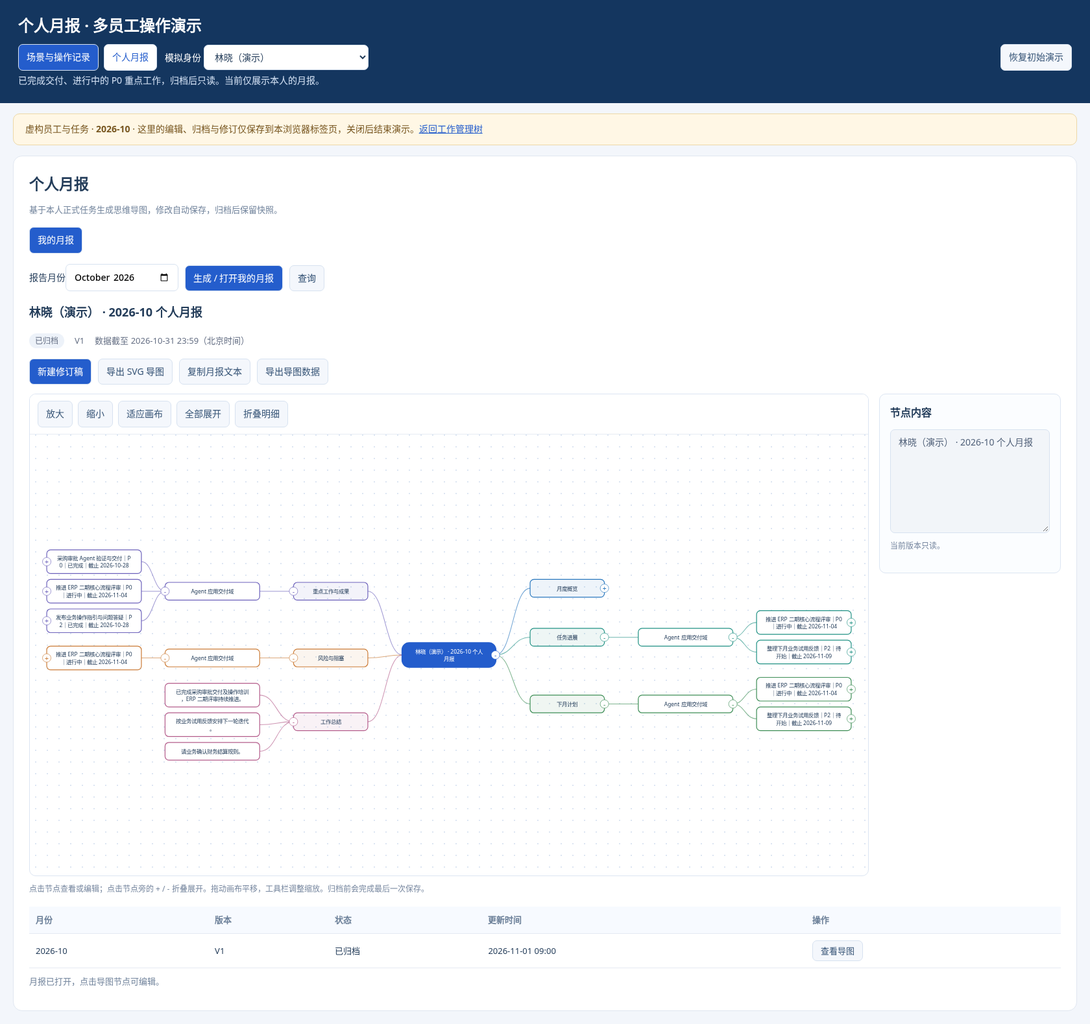
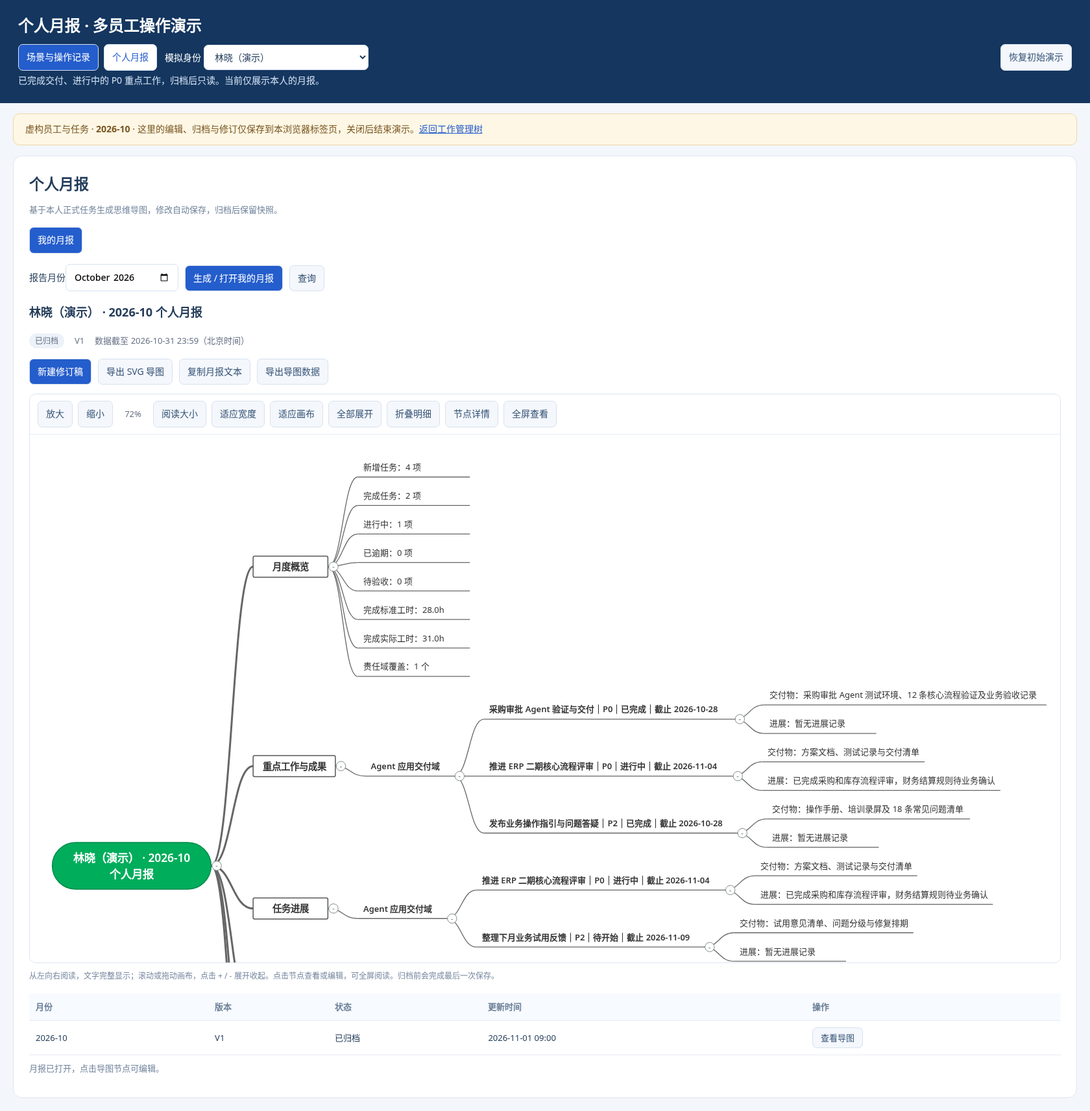
style: use readable right-facing monthly mind maps with underline branches

diff --git a/static/monthly-reports.js b/static/monthly-reports.js
@@ -1,31 +1,48 @@
-function monthlyMapLines(text,width,maxLines=3){
+function monthlyTextWidth(text,fontSize=18){
+  return Array.from(String(text)).reduce((width,char)=>{
+    const factor=char===' '?0.3:/[ilI.,:;!|']/u.test(char)?0.32:/[MW@#%]/.test(char)?0.95:/[\x00-\xff]/.test(char)?0.62:1;
+    return width+factor*fontSize;
+  },0);
+}
+function monthlyMapLines(text,width,maxLines=Infinity,fontSize=18){
   const lines=[];let line='',size=0;
   for(const char of String(text)){
-    const unit=/[\x00-\xff]/.test(char)?7:13;
-    if(char==='\n'||size+unit>width){lines.push(line);line='';size=0;if(lines.length===maxLines){lines[maxLines-1]+='…';return lines;}}
+    const unit=monthlyTextWidth(char,fontSize);
+    if(char==='\n'||(line&&size+unit>width)){
+      lines.push(line);line='';size=0;
+      if(lines.length===maxLines){lines[maxLines-1]+='…';return lines;}
+    }
     if(char!=='\n'){line+=char;size+=unit;}
   }
-  if(line||!lines.length)lines.push(line);return lines;
+  lines.push(line);return lines;
 }
 function layoutMonthlyMap(root,collapsed=new Set()){
-  const nodes=[],edges=[],cache=new Map(),gap=14;
-  const box=(node,depth)=>{const width=depth===0?220:depth===1?176:224,lines=monthlyMapLines(node.text,width-32);return {width,height:Math.max(42,lines.length*18+20),lines};};
-  function measure(node,depth){const own=box(node,depth),children=collapsed.has(node.id)?[]:node.children;const height=Math.max(own.height,children.reduce((sum,n)=>sum+measure(n,depth+1),0)+Math.max(0,children.length-1)*gap);cache.set(node.id,{...own,span:height});return height;}
+  const nodes=[],edges=[],cache=new Map(),gap=18;
+  function measure(node,depth){
+    const kind=node.kind||(depth===0?'root':depth===1?'section':'detail');
+    const fontSize=depth===0?24:depth===1?20:18,lineHeight=Math.ceil(fontSize*1.45);
+    const limit=depth===0?[260,340]:depth===1?[160,240]:kind==='group'?[190,290]:kind==='task'?[340,550]:[240,760];
+    const padding=depth<=1?36:24;
+    const longest=Math.max(0,...String(node.text).split('\n').map(line=>monthlyTextWidth(line,fontSize)));
+    const width=Math.max(limit[0],Math.min(limit[1],longest+padding));
+    const lines=monthlyMapLines(node.text,width-padding,Infinity,fontSize);
+    const own={width,height:lines.length*lineHeight+(depth===0?30:16),lines,fontSize,lineHeight,kind};
+    const children=collapsed.has(node.id)?[]:node.children;
+    const span=Math.max(own.height,children.reduce((sum,n)=>sum+measure(n,depth+1),0)+Math.max(0,children.length-1)*gap);
+    cache.set(node.id,{...own,span});return span;
+  }
   measure(root,0);
-  function place(node,depth,side,centerY,parent,color){
-    const own=cache.get(node.id),item={...own,node,depth,side,x:side*depth*280,y:centerY,color};nodes.push(item);if(parent)edges.push({parent,child:item,color});
-    const children=collapsed.has(node.id)?[]:node.children,total=children.reduce((sum,n)=>sum+cache.get(n.id).span,0)+Math.max(0,children.length-1)*gap;let top=centerY-total/2;
-    for(const child of children){const span=cache.get(child.id).span;place(child,depth+1,side,top+span/2,item,color);top+=span+gap;}
+  function place(node,depth,left,centerY,parent){
+    const own=cache.get(node.id),item={...own,node,depth,side:1,x:left+own.width/2,y:centerY,color:'#555'};
+    nodes.push(item);if(parent)edges.push({parent,child:item,color:'#666'});
+    const children=collapsed.has(node.id)?[]:node.children;
+    const total=children.reduce((sum,n)=>sum+cache.get(n.id).span,0)+Math.max(0,children.length-1)*gap;
+    let top=centerY-total/2;
+    for(const child of children){const span=cache.get(child.id).span;place(child,depth+1,left+own.width+(depth===0?90:64),top+span/2,item);top+=span+gap;}
   }
-  const central={...cache.get(root.id),node:root,depth:0,side:0,x:0,y:0,color:'#245dcc'};nodes.push(central);
-  const colors=['#2877be','#6c61bb','#209184','#cb7b36','#3c8d55','#b45c8b'];
-  if(!collapsed.has(root.id))for(const side of [-1,1]){
-    const branches=root.children.map((node,index)=>({node,index})).filter(n=>(n.index%2===0?1:-1)===side);
-    const total=branches.reduce((sum,n)=>sum+cache.get(n.node.id).span,0)+Math.max(0,branches.length-1)*32;let top=-total/2;
-    for(const {node,index} of branches){const span=cache.get(node.id).span;place(node,1,side,top+span/2,central,colors[index%colors.length]);top+=span+32;}
-  }
-  const left=Math.min(...nodes.map(n=>n.x-n.width/2))-40,right=Math.max(...nodes.map(n=>n.x+n.width/2))+40;
-  const top=Math.min(...nodes.map(n=>n.y-n.height/2))-40,bottom=Math.max(...nodes.map(n=>n.y+n.height/2))+40;
+  place(root,0,0,0,null);
+  const left=Math.min(...nodes.map(n=>n.x-n.width/2))-48,right=Math.max(...nodes.map(n=>n.x+n.width/2))+48;
+  const top=Math.min(...nodes.map(n=>n.y-n.height/2))-48,bottom=Math.max(...nodes.map(n=>n.y+n.height/2))+48;
   return {nodes,edges,bounds:{x:left,y:top,width:right-left,height:bottom-top}};
 }
 if(typeof module!=='undefined'&&module.exports)module.exports={layoutMonthlyMap,monthlyMapLines};
@@ -34,14 +51,14 @@ if(typeof module!=='undefined'&&module.exports)module.exports={layoutMonthlyMap,
   if(typeof document==='undefined')return;
   const $=selector=>document.querySelector(selector),esc=value=>String(value??'').replace(/[&<>"']/g,c=>({'&':'&amp;','<':'&lt;','>':'&gt;','"':'&quot;',"'":'&#39;'}[c]));
   const svgNS='http://www.w3.org/2000/svg';
-  let user=null,report=null,active=false,busy=false,scope='mine',selected='root',collapsed=new Set(),viewport=null,layout=null,loadVersion=0,identityId=null;
+  let user=null,report=null,active=false,busy=false,scope='mine',selected='root',collapsed=new Set(),zoom=null,layout=null,loadVersion=0,identityId=null;
   const style=document.createElement('style');
-  style.textContent=`#monthlyPage main{max-width:1680px}#monthlyPage .monthly-tabs{display:flex;gap:8px;margin:16px 0}#monthlyPage .monthly-tabs button{background:#eef3fb;color:#47617e}#monthlyPage .monthly-tabs button.active{background:#245dcc;color:#fff}#monthlyPage .monthly-toolbar{display:flex;align-items:end;gap:10px;flex-wrap:wrap;margin:16px 0}#monthlyPage button{width:auto;margin:0}#monthlyPage input,#monthlyPage select{width:auto;min-width:140px}#monthlyPage label{margin:0}#monthlyPage [hidden]{display:none!important}.monthly-workspace{display:grid;grid-template-columns:minmax(0,1fr) 280px;gap:16px;align-items:start}.monthly-canvas{border:1px solid #dce5f2;border-radius:10px;overflow:hidden;background:radial-gradient(#dce5f2 1px,transparent 1px) 0 0/18px 18px}.monthly-map-tools{padding:10px 12px;display:flex;gap:8px;flex-wrap:wrap;border-bottom:1px solid #e6ecf4;background:#fff}.monthly-canvas svg{display:block;width:100%;height:680px;touch-action:none;cursor:grab}.monthly-node{cursor:pointer;outline:none}.monthly-node:focus>rect,.monthly-node.selected>rect{stroke-width:3}.monthly-node text{font:13px -apple-system,BlinkMacSystemFont,'Microsoft YaHei',sans-serif;user-select:none}.monthly-node .monthly-toggle{cursor:pointer;font-size:16px}.monthly-panel{padding:16px;border:1px solid #dce5f2;border-radius:10px;background:#fbfdff;min-width:0}.monthly-panel h3{font-size:16px;margin:0 0 12px}.monthly-panel textarea{width:100%;box-sizing:border-box;min-height:160px;font:inherit;font-size:14px;line-height:1.6}.monthly-panel textarea:disabled{color:#52627a;background:#f2f5f9}.monthly-panel .monthly-node-actions{display:flex;gap:8px;flex-wrap:wrap;margin-top:12px}.monthly-panel .monthly-source{white-space:pre-wrap;overflow-wrap:anywhere;font-size:12px;line-height:1.7;color:#667085;margin-top:16px}.monthly-help{font-size:12px;color:#7888a0;margin:10px 0}.monthly-list{overflow:auto;margin-top:18px}.monthly-list table{border-collapse:collapse;width:100%;font-size:13px;white-space:nowrap}.monthly-list th,.monthly-list td{padding:10px;border-bottom:1px solid #e5eaf2;text-align:left}.monthly-list th{background:#f7faff;color:#6b7f98}.monthly-meta{display:flex;gap:10px 16px;flex-wrap:wrap;align-items:center;margin:10px 0 16px;color:#667085;font-size:13px}.monthly-login{padding:25px;border:1px solid #d9e5f5;background:#f5f9ff;border-radius:10px}.monthly-error{color:#b42318}.monthly-list button{padding:5px 12px}#monthlyPage .monthly-meta .tag{margin:0}#monthlyPage .monthly-actions{display:flex;gap:10px;align-items:center;flex-wrap:wrap;margin-bottom:14px}@media(max-width:1100px){.monthly-workspace{grid-template-columns:minmax(0,1fr)}.monthly-canvas svg{height:620px}.monthly-panel textarea{min-height:100px}}@media(max-width:600px){.monthly-canvas svg{height:520px}.monthly-toolbar>*{max-width:100%}}`;
+  style.textContent=`#monthlyPage main{max-width:1680px}#monthlyPage .monthly-tabs{display:flex;gap:8px;margin:16px 0}#monthlyPage .monthly-tabs button{background:#eef3fb;color:#47617e}#monthlyPage .monthly-tabs button.active{background:#245dcc;color:#fff}#monthlyPage .monthly-toolbar{display:flex;align-items:end;gap:10px;flex-wrap:wrap;margin:16px 0}#monthlyPage button{width:auto;margin:0}#monthlyPage input,#monthlyPage select{width:auto;min-width:140px}#monthlyPage label{margin:0}#monthlyPage [hidden]{display:none!important}.monthly-workspace{display:block}.monthly-workspace.editing{display:grid;grid-template-columns:minmax(0,1fr) 300px;gap:16px;align-items:start}.monthly-canvas{border:1px solid #dce5f2;border-radius:10px;overflow:hidden;background:#fff}.monthly-map-tools{padding:10px 12px;display:flex;gap:8px;flex-wrap:wrap;border-bottom:1px solid #e6ecf4;background:#fff}.monthly-canvas svg{display:block;max-width:none;touch-action:pan-x pan-y;cursor:grab}#monthlyMap{height:clamp(520px,74vh,900px);overflow:auto;overscroll-behavior:contain;scrollbar-gutter:stable}.monthly-zoom{align-self:center;min-width:46px;text-align:center;color:#667085;font-size:13px}.monthly-canvas.is-fullscreen{position:fixed;inset:0;z-index:10000;border:0;border-radius:0;background:#fff;display:flex;flex-direction:column}.monthly-canvas.is-fullscreen #monthlyMap{height:auto;min-height:0;flex:1}.monthly-canvas.is-fullscreen .monthly-map-tools{flex-shrink:0}.monthly-workspace.fullscreen .monthly-panel{position:fixed;right:20px;top:90px;z-index:10001;width:min(320px,calc(100vw - 40px));max-height:calc(100dvh - 110px);overflow:auto;box-shadow:0 8px 32px #16304b25}.monthly-node{cursor:pointer;outline:none}.monthly-node:focus-visible>rect{stroke:#008a49;stroke-width:2.5}.monthly-node:focus .monthly-underline,.monthly-node.selected .monthly-underline{stroke:#009f55;stroke-width:2.5}.monthly-node text{font-family:-apple-system,BlinkMacSystemFont,'Microsoft YaHei',sans-serif;user-select:none}.monthly-node .monthly-toggle{cursor:pointer;font-size:16px}.monthly-panel{padding:16px;border:1px solid #dce5f2;border-radius:10px;background:#fbfdff;min-width:0}.monthly-panel h3{font-size:16px;margin:0 0 12px}.monthly-panel textarea{width:100%;box-sizing:border-box;min-height:160px;font:inherit;font-size:14px;line-height:1.6}.monthly-panel textarea:disabled{color:#52627a;background:#f2f5f9}.monthly-panel .monthly-node-actions{display:flex;gap:8px;flex-wrap:wrap;margin-top:12px}.monthly-panel .monthly-source{white-space:pre-wrap;overflow-wrap:anywhere;font-size:12px;line-height:1.7;color:#667085;margin-top:16px}.monthly-help{font-size:12px;color:#7888a0;margin:10px 0}.monthly-list{overflow:auto;margin-top:18px}.monthly-list table{border-collapse:collapse;width:100%;font-size:13px;white-space:nowrap}.monthly-list th,.monthly-list td{padding:10px;border-bottom:1px solid #e5eaf2;text-align:left}.monthly-list th{background:#f7faff;color:#6b7f98}.monthly-meta{display:flex;gap:10px 16px;flex-wrap:wrap;align-items:center;margin:10px 0 16px;color:#667085;font-size:13px}.monthly-login{padding:25px;border:1px solid #d9e5f5;background:#f5f9ff;border-radius:10px}.monthly-error{color:#b42318}.monthly-list button{padding:5px 12px}#monthlyPage .monthly-meta .tag{margin:0}#monthlyPage .monthly-actions{display:flex;gap:10px;align-items:center;flex-wrap:wrap;margin-bottom:14px}@media(max-width:1100px){.monthly-workspace.editing{grid-template-columns:minmax(0,1fr)}.monthly-panel textarea{min-height:100px}}@media(max-width:600px){.monthly-workspace.fullscreen .monthly-panel{top:auto;bottom:12px;right:12px;width:calc(100vw - 24px);max-height:50dvh}#monthlyMap{height:65vh;min-height:420px}.monthly-toolbar>*{max-width:100%}}`;
   document.head.append(style);
   const nav=$('.nav-tabs');if(!nav)return;
   const tab=$('#monthlyTab')||document.createElement('button');if(!tab.id){tab.id='monthlyTab';tab.type='button';tab.textContent='个人月报';nav.insertBefore(tab,$('#orgTab'));}
   const page=document.createElement('section');page.id='monthlyPage';page.className='hidden';
-  page.innerHTML=`<main><section class="card"><h2>个人月报</h2><p class="muted">基于本人正式任务生成思维导图，修改自动保存，归档后保留快照。</p><div id="monthlyAuth"></div><div id="monthlyBody" hidden><nav class="monthly-tabs"><button type="button" id="monthlyMine" class="active">我的月报</button><button type="button" id="monthlyTeam" hidden>部门月报</button></nav><div class="monthly-toolbar"><label>报告月份<input type="month" id="monthlyMonth"></label><label id="monthlyEmployeeField" hidden>员工<select id="monthlyEmployee"><option value="">全部员工</option></select></label><button type="button" id="monthlyGenerate">生成 / 打开我的月报</button><button type="button" class="secondary" id="monthlyQuery">查询</button></div><div id="monthlyReport" hidden><h3 id="monthlyTitle"></h3><div class="monthly-meta" id="monthlyMeta"></div><div class="monthly-actions" id="monthlyActions"></div><div class="monthly-workspace"><div class="monthly-canvas"><div class="monthly-map-tools"><button type="button" class="secondary" data-map="in" aria-label="放大导图">放大</button><button type="button" class="secondary" data-map="out" aria-label="缩小导图">缩小</button><button type="button" class="secondary" data-map="fit">适应画布</button><button type="button" class="secondary" data-map="expand">全部展开</button><button type="button" class="secondary" data-map="collapse">折叠明细</button></div><div id="monthlyMap"></div></div><aside class="monthly-panel"><h3>节点内容</h3><textarea id="monthlyNodeText" aria-label="节点内容" maxlength="4000"></textarea><p id="monthlyNodeHint" class="monthly-help"></p><div class="monthly-node-actions" id="monthlyNodeActions"><button type="button" class="secondary" data-node-action="add">添加子节点</button><button type="button" class="secondary" data-node-action="remove">删除节点</button><button type="button" class="secondary" data-node-action="up">上移</button><button type="button" class="secondary" data-node-action="down">下移</button></div><div id="monthlySource" class="monthly-source"></div></aside></div><p class="monthly-help">点击节点查看或编辑；点击节点旁的 + / − 折叠展开。拖动画布平移，工具栏调整缩放。归档前会完成最后一次保存。</p></div><div class="monthly-list" id="monthlyList"></div></div><p id="monthlyMessage" role="status" aria-live="polite"></p></section></main>`;
+  page.innerHTML=`<main><section class="card"><h2>个人月报</h2><p class="muted">基于本人正式任务生成思维导图，修改自动保存，归档后保留快照。</p><div id="monthlyAuth"></div><div id="monthlyBody" hidden><nav class="monthly-tabs"><button type="button" id="monthlyMine" class="active">我的月报</button><button type="button" id="monthlyTeam" hidden>部门月报</button></nav><div class="monthly-toolbar"><label>报告月份<input type="month" id="monthlyMonth"></label><label id="monthlyEmployeeField" hidden>员工<select id="monthlyEmployee"><option value="">全部员工</option></select></label><button type="button" id="monthlyGenerate">生成 / 打开我的月报</button><button type="button" class="secondary" id="monthlyQuery">查询</button></div><div id="monthlyReport" hidden><h3 id="monthlyTitle"></h3><div class="monthly-meta" id="monthlyMeta"></div><div class="monthly-actions" id="monthlyActions"></div><div class="monthly-workspace"><div class="monthly-canvas"><div class="monthly-map-tools"><button type="button" class="secondary" data-map="in" aria-label="放大导图">放大</button><button type="button" class="secondary" data-map="out" aria-label="缩小导图">缩小</button><span id="monthlyZoom" class="monthly-zoom">100%</span><button type="button" class="secondary" data-map="actual">阅读大小</button><button type="button" class="secondary" data-map="width">适应宽度</button><button type="button" class="secondary" data-map="fit">适应画布</button><button type="button" class="secondary" data-map="expand">全部展开</button><button type="button" class="secondary" data-map="collapse">折叠明细</button><button type="button" class="secondary" data-map="editor" aria-expanded="false">节点详情</button><button type="button" class="secondary" data-map="fullscreen" aria-pressed="false">全屏查看</button></div><div id="monthlyMap"></div></div><aside class="monthly-panel" hidden><h3>节点内容</h3><textarea id="monthlyNodeText" aria-label="节点内容" maxlength="4000"></textarea><p id="monthlyNodeHint" class="monthly-help"></p><div class="monthly-node-actions" id="monthlyNodeActions"><button type="button" class="secondary" data-node-action="add">添加子节点</button><button type="button" class="secondary" data-node-action="remove">删除节点</button><button type="button" class="secondary" data-node-action="up">上移</button><button type="button" class="secondary" data-node-action="down">下移</button></div><div id="monthlySource" class="monthly-source"></div></aside></div><p class="monthly-help">从左向右阅读，文字完整显示；滚动或拖动画布，点击 + / − 展开收起。点击节点查看或编辑，可全屏阅读。归档前会完成最后一次保存。</p></div><div class="monthly-list" id="monthlyList"></div></div><p id="monthlyMessage" role="status" aria-live="polite"></p></section></main>`;
   document.body.append(page);
   const monthNow=()=>new Intl.DateTimeFormat('sv-SE',{timeZone:'Asia/Shanghai',year:'numeric',month:'2-digit'}).format(new Date());
   $('#monthlyMonth').value=monthNow();
@@ -59,8 +76,8 @@ if(typeof module!=='undefined'&&module.exports)module.exports={layoutMonthlyMap,
   }
   const autosave=createWeeklyAutosave({save:(id,payload)=>api('/'+id,payload),onState:saveState,canEdit:value=>value.can_edit&&value.status==='draft'});
   function flat(root){const result=[];function visit(node,parent){result.push({node,parent});node.children.forEach(n=>visit(n,node));}visit(root,null);return result;}
-  function resetFolds(){collapsed=new Set();if(report)for(const {node} of flat(report.editorial.outline))if(node.kind==='task'||(node.kind==='group'&&node.children.length>4)||node.id==='section:overview')collapsed.add(node.id);}
-  function setReport(value){report=value;selected='root';viewport=null;autosave.reset(value);resetFolds();$('#monthlyReport').hidden=!value;if(value){renderMeta();renderGraph();renderEditor();}}
+  function resetFolds(){collapsed=new Set();if(report)for(const {node} of flat(report.editorial.outline))if((node.kind==='group'&&node.children.length>6)||(node.kind==='task'&&report.snapshot.tasks.length>30))collapsed.add(node.id);}
+  function setReport(value){report=value;selected='root';zoom=null;autosave.reset(value);resetFolds();$('#monthlyReport').hidden=!value;if(!value)fullscreen(false);if(value){showEditor(false);$('#monthlyMap').scrollTo(0,0);renderMeta();renderGraph();renderEditor();}}
   function renderMeta(){
     if(!report)return;
     $('#monthlyTitle').textContent=report.snapshot.title;
@@ -72,27 +89,76 @@ if(typeof module!=='undefined'&&module.exports)module.exports={layoutMonthlyMap,
   function svgElement(name,attributes={}){const value=document.createElementNS(svgNS,name);for(const [key,item] of Object.entries(attributes))value.setAttribute(key,String(item));return value;}
   function makeSVG(model,folds,interactive){
     const map=layoutMonthlyMap(model,folds),svg=svgElement('svg',{xmlns:svgNS,role:'img','aria-label':report.snapshot.title,viewBox:`${map.bounds.x} ${map.bounds.y} ${map.bounds.width} ${map.bounds.height}`});
-    const svgStyle=svgElement('style');svgStyle.textContent="text{font:13px sans-serif}rect{vector-effect:non-scaling-stroke}";svg.append(svgStyle);
-    for(const edge of map.edges){const side=edge.child.side,x1=edge.parent.x+side*edge.parent.width/2,x2=edge.child.x-side*edge.child.width/2,middle=(x1+x2)/2;svg.append(svgElement('path',{d:`M ${x1} ${edge.parent.y} C ${middle} ${edge.parent.y}, ${middle} ${edge.child.y}, ${x2} ${edge.child.y}`,fill:'none',stroke:edge.color,'stroke-width':1.6,opacity:.65}));}
+    const svgStyle=svgElement('style');svgStyle.textContent="text{font-family:-apple-system,BlinkMacSystemFont,'Microsoft YaHei',sans-serif}path,rect,circle{vector-effect:non-scaling-stroke}";svg.append(svgStyle);
+    svg.append(svgElement('rect',{x:map.bounds.x,y:map.bounds.y,width:map.bounds.width,height:map.bounds.height,fill:'#fff'}));
+    const baseline=item=>item.kind==='root'||item.kind==='section'?item.y:item.y+item.height/2;
+    for(const edge of map.edges){
+      const x1=edge.parent.x+edge.parent.width/2,x2=edge.child.x-edge.child.width/2,middle=(x1+x2)/2,y1=baseline(edge.parent),y2=baseline(edge.child);
+      svg.append(svgElement('path',{d:`M ${x1} ${y1} C ${middle} ${y1}, ${middle} ${y2}, ${x2} ${y2}`,fill:'none',stroke:edge.color,'stroke-width':edge.parent.depth===0?3:1.3}));
+    }
     for(const item of map.nodes){
-      const n=item.node,g=svgElement('g',{'data-node':n.id,class:'monthly-node'+(selected===n.id?' selected':''),tabindex:interactive?0:-1,role:'button','aria-label':n.text}),isRoot=n.kind==='root';
+      const n=item.node,isRoot=item.kind==='root',boxed=isRoot||item.kind==='section',isSelected=interactive&&selected===n.id;
+      const g=svgElement('g',{'data-node':n.id,class:'monthly-node'+(isSelected?' selected':''),tabindex:interactive?0:-1,role:interactive?'button':'group','aria-label':n.text});
       const title=svgElement('title');title.textContent=n.text;g.append(title);
-      g.append(svgElement('rect',{x:item.x-item.width/2,y:item.y-item.height/2,width:item.width,height:item.height,rx:isRoot?16:9,fill:isRoot?'#245dcc':n.kind==='section'?item.color+'14':'#fff',stroke:item.color,'stroke-width':selected===n.id?3:1.2}));
-      item.lines.forEach((line,index)=>{const text=svgElement('text',{x:item.x,y:item.y-(item.lines.length-1)*9+index*18,'text-anchor':'middle','dominant-baseline':'central',fill:isRoot?'#fff':'#243d5a'});text.textContent=line;g.append(text);});
-      if(interactive){g.addEventListener('click',()=>{selected=n.id;renderGraph();renderEditor();});g.addEventListener('keydown',event=>{if(event.key==='Enter'){event.preventDefault();selected=n.id;renderGraph();renderEditor();}});}
-      if(n.children.length&&interactive){const toggle=svgElement('g',{'data-toggle':n.id,role:'button','aria-label':(folds.has(n.id)?'展开':'折叠')+' '+n.text,tabindex:0}),x=item.x+(item.side||1)*item.width/2;toggle.append(svgElement('circle',{cx:x,cy:item.y,r:10,fill:'#fff',stroke:item.color}));const label=svgElement('text',{x,y:item.y,'text-anchor':'middle','dominant-baseline':'central',fill:item.color,class:'monthly-toggle'});label.textContent=folds.has(n.id)?'+':'−';toggle.append(label);const change=event=>{event.stopPropagation();folds.has(n.id)?folds.delete(n.id):folds.add(n.id);renderGraph();};toggle.addEventListener('click',change);toggle.addEventListener('keydown',event=>{if(event.key==='Enter'||event.key===' '){event.preventDefault();change(event);}});g.append(toggle);}
+      const left=item.x-item.width/2,top=item.y-item.height/2;
+      g.append(svgElement('rect',{x:left,y:top,width:item.width,height:item.height,rx:isRoot?item.height/2:boxed?3:0,fill:isRoot?'#00ad5b':isSelected?'#f0faf4':'#fff',stroke:boxed?(isSelected?'#008a49':'#555'):'none','stroke-width':boxed?1.5:0}));
+      if(!boxed)g.append(svgElement('path',{class:'monthly-underline',d:`M ${left} ${top+item.height} H ${left+item.width}`,fill:'none',stroke:isSelected?'#009f55':'#666','stroke-width':isSelected?2.5:1.3}));
+      item.lines.forEach((line,index)=>{
+        const text=svgElement('text',{x:boxed?item.x:left+12,y:item.y-(item.lines.length-1)*item.lineHeight/2+index*item.lineHeight,'text-anchor':boxed?'middle':'start','dominant-baseline':'central',fill:isRoot?'#fff':'#343434','font-size':item.fontSize,'font-weight':['root','section','group','task'].includes(item.kind)?650:400});
+        text.textContent=line;g.append(text);
+      });
+      if(interactive){
+        const select=()=>{selected=n.id;showEditor(true);renderGraph();renderEditor();};
+        g.addEventListener('click',select);g.addEventListener('keydown',event=>{if(event.target!==g)return;if(event.key==='Enter'){event.preventDefault();select();}});
+      }
+      if(n.children.length&&interactive){
+        const x=item.x+item.width/2+12,y=baseline(item),toggle=svgElement('g',{'data-toggle':n.id,role:'button','aria-label':(folds.has(n.id)?'展开':'折叠')+' '+n.text,'aria-expanded':String(!folds.has(n.id)),tabindex:0});
+        toggle.append(svgElement('circle',{cx:x,cy:y,r:10,fill:'#fff',stroke:'#829087'}));
+        const label=svgElement('text',{x,y,'text-anchor':'middle','dominant-baseline':'central',fill:'#64756b','font-size':16,class:'monthly-toggle'});label.textContent=folds.has(n.id)?'+':'−';toggle.append(label);
+        const change=event=>{event.stopPropagation();folds.has(n.id)?folds.delete(n.id):folds.add(n.id);renderGraph();};
+        toggle.addEventListener('click',change);toggle.addEventListener('keydown',event=>{if(event.key==='Enter'||event.key===' '){event.preventDefault();change(event);}});g.append(toggle);
+      }
       svg.append(g);
     }
     return {svg,map};
   }
-  function setViewport(value){viewport=value;$('#monthlyMap svg')?.setAttribute('viewBox',`${value.x} ${value.y} ${value.width} ${value.height}`);}
-  function renderGraph(){
-    if(!report)return;const output=makeSVG(report.editorial.outline,collapsed,true);layout=output.map;$('#monthlyMap').replaceChildren(output.svg);setViewport(viewport||{...layout.bounds});
-    const svg=output.svg;let drag=null;
-    svg.addEventListener('pointerdown',event=>{if(event.target.closest('[data-node]'))return;drag={x:event.clientX,y:event.clientY,view:{...viewport}};svg.setPointerCapture(event.pointerId);});
-    svg.addEventListener('pointermove',event=>{if(drag)setViewport({...drag.view,x:drag.view.x-(event.clientX-drag.x)*drag.view.width/svg.clientWidth,y:drag.view.y-(event.clientY-drag.y)*drag.view.height/svg.clientHeight});});
-    svg.addEventListener('pointerup',()=>drag=null);svg.addEventListener('pointercancel',()=>drag=null);
+  function showEditor(open){
+    const panel=$('#monthlyPage .monthly-panel');panel.hidden=!open;$('#monthlyPage .monthly-workspace').classList.toggle('editing',open);
+    const button=$('[data-map="editor"]');button.textContent=open?'收起详情':'节点详情';button.setAttribute('aria-expanded',String(open));
   }
+  function applyZoom(value,anchor){
+    if(!layout)return;
+    const holder=$('#monthlyMap'),previous=zoom||1;
+    anchor=anchor||{x:holder.clientWidth/2,y:holder.clientHeight/2};
+    const position={x:(holder.scrollLeft+anchor.x)/previous,y:(holder.scrollTop+anchor.y)/previous};
+    zoom=Math.max(.1,Math.min(3,value));const svg=holder.querySelector('svg');
+    if(svg){svg.style.width=layout.bounds.width*zoom+'px';svg.style.height=layout.bounds.height*zoom+'px';}
+    $('#monthlyZoom').textContent=Math.round(zoom*100)+'%';
+    holder.scrollLeft=position.x*zoom-anchor.x;holder.scrollTop=position.y*zoom-anchor.y;
+  }
+  function renderGraph(){
+    if(!report)return;
+    const holder=$('#monthlyMap'),position={x:holder.scrollLeft,y:holder.scrollTop},output=makeSVG(report.editorial.outline,collapsed,true);
+    layout=output.map;holder.replaceChildren(output.svg);
+    applyZoom(zoom||Math.max(.72,Math.min(1,holder.clientWidth/layout.bounds.width)),{x:0,y:0});holder.scrollLeft=position.x;holder.scrollTop=position.y;
+  }
+  const mapHolder=$('#monthlyMap');let drag=null;
+  mapHolder.addEventListener('pointerdown',event=>{
+    if(event.pointerType!=='mouse'||event.button!==0||event.target.closest('[data-node]'))return;
+    drag={x:event.clientX,y:event.clientY,left:mapHolder.scrollLeft,top:mapHolder.scrollTop};mapHolder.setPointerCapture(event.pointerId);event.preventDefault();
+  });
+  mapHolder.addEventListener('pointermove',event=>{if(drag){mapHolder.scrollLeft=drag.left-(event.clientX-drag.x);mapHolder.scrollTop=drag.top-(event.clientY-drag.y);}});
+  mapHolder.addEventListener('pointerup',()=>drag=null);mapHolder.addEventListener('pointercancel',()=>drag=null);
+  mapHolder.addEventListener('wheel',event=>{if(event.ctrlKey||event.metaKey){event.preventDefault();const rect=mapHolder.getBoundingClientRect();applyZoom((zoom||1)*(event.deltaY<0?1.1:1/1.1),{x:event.clientX-rect.left,y:event.clientY-rect.top});}},{passive:false});
+  let bodyOverflow=null;
+  function fullscreen(open){
+    const canvas=$('#monthlyPage .monthly-canvas');
+    if(open){if(bodyOverflow===null)bodyOverflow=document.body.style.overflow;document.body.style.overflow='hidden';}
+    else if(bodyOverflow!==null){document.body.style.overflow=bodyOverflow;bodyOverflow=null;}
+    canvas.classList.toggle('is-fullscreen',open);$('#monthlyPage .monthly-workspace').classList.toggle('fullscreen',open);
+    const button=$('[data-map="fullscreen"]');button.textContent=open?'退出全屏':'全屏查看';button.setAttribute('aria-pressed',String(open));
+  }
+  document.addEventListener('keydown',event=>{if(event.key==='Escape')fullscreen(false);});
   function renderEditor(){
     if(!report)return;const entry=flat(report.editorial.outline).find(x=>x.node.id===selected)||{node:report.editorial.outline,parent:null};selected=entry.node.id;
     const editable=report.can_edit&&!busy,protectedNode=['root','metric'].includes(entry.node.kind);
@@ -143,12 +209,20 @@ if(typeof module!=='undefined'&&module.exports)module.exports={layoutMonthlyMap,
       else if(action==='text'){const data=await api('/'+report.id+'/text');try{await navigator.clipboard.writeText(data.text);message('月报文本已复制。');}catch(_){download(report.snapshot.title+'.txt',data.text,'text/plain;charset=utf-8');}}
     }catch(error){fail(error);}finally{busy=false;if(report){renderMeta();renderEditor();}}
   };
-  $('.monthly-map-tools').onclick=event=>{const button=event.target.closest('[data-map]');if(!button||!report)return;const action=button.dataset.map;
-    if(action==='expand'){collapsed.clear();viewport=null;renderGraph();}else if(action==='collapse'){resetFolds();viewport=null;renderGraph();}else if(action==='fit')setViewport({...layout.bounds});
-    else{const factor=action==='in' ? 0.8 : 1.25,width=Math.max(200,Math.min(layout.bounds.width*4,viewport.width*factor)),ratio=width/viewport.width;setViewport({x:viewport.x+(viewport.width-width)/2,y:viewport.y+(viewport.height-viewport.height*ratio)/2,width,height:viewport.height*ratio});}};
+  $('.monthly-map-tools').onclick=event=>{
+    const button=event.target.closest('[data-map]');if(!button||!report)return;const action=button.dataset.map,holder=$('#monthlyMap');
+    if(action==='expand'){collapsed.clear();renderGraph();}
+    else if(action==='collapse'){resetFolds();for(const {node} of flat(report.editorial.outline))if(node.kind==='task'||node.id==='section:overview')collapsed.add(node.id);renderGraph();}
+    else if(action==='fit'){applyZoom(Math.min(holder.clientWidth/layout.bounds.width,holder.clientHeight/layout.bounds.height),{x:0,y:0});holder.scrollTo(0,0);}
+    else if(action==='width'){applyZoom(holder.clientWidth/layout.bounds.width,{x:0,y:0});holder.scrollLeft=0;}
+    else if(action==='actual')applyZoom(1);
+    else if(action==='editor')showEditor($('#monthlyPage .monthly-panel').hidden);
+    else if(action==='fullscreen')fullscreen(!$('#monthlyPage .monthly-canvas').classList.contains('is-fullscreen'));
+    else applyZoom((zoom||1)*(action==='in'?1.25:.8));
+  };
   const baseOpen=window.openPage;
   window.openPage=async function(name){
-    if(active&&name!=='monthly'){if(busy||!await flush())return;active=false;page.classList.add('hidden');}
+    if(active&&name!=='monthly'){if(busy||!await flush())return;active=false;fullscreen(false);page.classList.add('hidden');}
     if(name!=='monthly')return baseOpen(name);
     if(active)return;
     await baseOpen(name);if($('#weeklyPage')&&!$('#weeklyPage').classList.contains('hidden'))return;

diff --git a/static/index.html b/static/index.html
@@ -286,4 +286,4 @@ window.addEventListener('load',()=>{
   const baseShowTaskDetails=window.showTaskDetails;if(baseShowTaskDetails)window.showTaskDetails=id=>{baseShowTaskDetails(id);const task=currentTasks.find(item=>Number(item.id)===Number(id));if(!rejected(task))return;const panel=$('#taskDetailContent');if(!panel||panel.querySelector('.acceptance-rejected-detail'))return;const a=task.latest_acceptance,block=document.createElement('section');block.className='acceptance-rejected-detail';block.innerHTML=`<h4>验收已驳回</h4><p>驳回原因：${esc(a.reason||'验收人未填写原因')}\n驳回人：${esc(a.acceptor_name||'验收人')} · ${esc(dateOnly(a.created_at))}</p>`;panel.append(block)};
   renderBoard();renderTaskList();
 });
-</script><style>.action-confirm-dialog{width:min(520px,calc(100vw - 32px));padding:0;overflow:hidden}.action-confirm-dialog form{position:relative;padding:28px 30px}.action-confirm-dialog h3{padding-right:52px;margin:0 0 10px}.action-confirm-dialog .task-detail-close{position:absolute;right:18px;top:18px;display:inline-flex;align-items:center;justify-content:center;width:36px;height:36px;padding:0;border:1px solid #dce4ef;border-radius:50%;background:#fff;color:#52627a;font-size:22px;line-height:1;box-shadow:none}.action-confirm-dialog .task-detail-close:hover{background:#f2f6fb;color:#17459b}.action-confirm-item{margin:16px 0 20px;padding:12px 14px;border-left:3px solid #2f6bdd;border-radius:8px;background:#f5f8fd;color:#172b4d;font-weight:600;overflow-wrap:anywhere}.action-confirm-actions{justify-content:flex-end;margin:0}.action-confirm-actions button{min-width:88px}</style><script>(()=>{const dialog=$('#actionConfirmDialog'),title=$('#actionConfirmTitle'),message=$('#actionConfirmMessage'),item=$('#actionConfirmItem'),submit=$('#actionConfirmSubmit');let resolveChoice=null;const finish=value=>{if(!dialog.open)return;dialog.close();const resolve=resolveChoice;resolveChoice=null;resolve?.(value)};window.closeActionConfirm=()=>finish(false);dialog.addEventListener('cancel',event=>{event.preventDefault();finish(false)});dialog.querySelector('form').addEventListener('submit',event=>{event.preventDefault();finish(true)});window.requestActionConfirmation=({title:heading='请确认操作',message:hint='',itemText='',confirmLabel='确认',danger=false}={})=>new Promise(resolve=>{resolveChoice=resolve;title.textContent=heading;message.textContent=hint;item.textContent=itemText;item.hidden=!itemText;submit.textContent=confirmLabel;submit.classList.toggle('danger',danger);dialog.showModal();submit.focus()});window.requestApprovalDecision=async(id,result)=>{try{const approval=await get('/api/approvals/'+id),task=approval.task||{},isApprove=result==='approved',confirmed=await requestActionConfirmation({title:isApprove?'确认任务':'驳回任务',message:isApprove?'确认后任务将正式生效并进入工作管理。建议先查看详情核对任务内容。':'驳回后任务将退回提交人修改，可补充说明后重新提交。',itemText:task.title||'该事项',confirmLabel:isApprove?'确认':'驳回',danger:!isApprove});if(!confirmed)return;await resolveApproval(id,result)}catch{openApprovalDetail(id)}}})();</script><script defer src="/static/weekly-reports.js?v=20261105-6"></script><script defer src="/static/monthly-reports.js?v=20261105-1"></script></body></html>
+</script><style>.action-confirm-dialog{width:min(520px,calc(100vw - 32px));padding:0;overflow:hidden}.action-confirm-dialog form{position:relative;padding:28px 30px}.action-confirm-dialog h3{padding-right:52px;margin:0 0 10px}.action-confirm-dialog .task-detail-close{position:absolute;right:18px;top:18px;display:inline-flex;align-items:center;justify-content:center;width:36px;height:36px;padding:0;border:1px solid #dce4ef;border-radius:50%;background:#fff;color:#52627a;font-size:22px;line-height:1;box-shadow:none}.action-confirm-dialog .task-detail-close:hover{background:#f2f6fb;color:#17459b}.action-confirm-item{margin:16px 0 20px;padding:12px 14px;border-left:3px solid #2f6bdd;border-radius:8px;background:#f5f8fd;color:#172b4d;font-weight:600;overflow-wrap:anywhere}.action-confirm-actions{justify-content:flex-end;margin:0}.action-confirm-actions button{min-width:88px}</style><script>(()=>{const dialog=$('#actionConfirmDialog'),title=$('#actionConfirmTitle'),message=$('#actionConfirmMessage'),item=$('#actionConfirmItem'),submit=$('#actionConfirmSubmit');let resolveChoice=null;const finish=value=>{if(!dialog.open)return;dialog.close();const resolve=resolveChoice;resolveChoice=null;resolve?.(value)};window.closeActionConfirm=()=>finish(false);dialog.addEventListener('cancel',event=>{event.preventDefault();finish(false)});dialog.querySelector('form').addEventListener('submit',event=>{event.preventDefault();finish(true)});window.requestActionConfirmation=({title:heading='请确认操作',message:hint='',itemText='',confirmLabel='确认',danger=false}={})=>new Promise(resolve=>{resolveChoice=resolve;title.textContent=heading;message.textContent=hint;item.textContent=itemText;item.hidden=!itemText;submit.textContent=confirmLabel;submit.classList.toggle('danger',danger);dialog.showModal();submit.focus()});window.requestApprovalDecision=async(id,result)=>{try{const approval=await get('/api/approvals/'+id),task=approval.task||{},isApprove=result==='approved',confirmed=await requestActionConfirmation({title:isApprove?'确认任务':'驳回任务',message:isApprove?'确认后任务将正式生效并进入工作管理。建议先查看详情核对任务内容。':'驳回后任务将退回提交人修改，可补充说明后重新提交。',itemText:task.title||'该事项',confirmLabel:isApprove?'确认':'驳回',danger:!isApprove});if(!confirmed)return;await resolveApproval(id,result)}catch{openApprovalDetail(id)}}})();</script><script defer src="/static/weekly-reports.js?v=20261105-6"></script><script defer src="/static/monthly-reports.js?v=20261105-2"></script></body></html>

diff --git a/artifacts/monthly-report-demo/index.html b/artifacts/monthly-report-demo/index.html
@@ -121,7 +121,7 @@ document.getElementById('demoChecks').innerHTML=demoBundle.checks.map(text=>`<li
 document.getElementById('demoViewer').onchange=async event=>{await openPage('home');if(!document.getElementById('monthlyPage').classList.contains('hidden'))return;location.search='?viewer='+event.target.value;};
 document.getElementById('demoReset').onclick=()=>{sessionStorage.removeItem(demoKey);location.reload();};
 </script>
-<script src="/static/monthly-reports.js?v=20261105-1"></script>
+<script src="/static/monthly-reports.js?v=20261105-2"></script>
 <script>
 window.addEventListener('load',async()=>{
  await openPage('monthly');document.getElementById('monthlyMonth').value=demoBundle.month;

diff --git a/scripts/monthly-report-preview.html b/scripts/monthly-report-preview.html
@@ -73,7 +73,7 @@ document.getElementById('demoChecks').innerHTML=demoBundle.checks.map(text=>`<li
 document.getElementById('demoViewer').onchange=async event=>{await openPage('home');if(!document.getElementById('monthlyPage').classList.contains('hidden'))return;location.search='?viewer='+event.target.value;};
 document.getElementById('demoReset').onclick=()=>{sessionStorage.removeItem(demoKey);location.reload();};
 </script>
-<script src="/static/monthly-reports.js?v=20261105-1"></script>
+<script src="/static/monthly-reports.js?v=20261105-2"></script>
 <script>
 window.addEventListener('load',async()=>{
  await openPage('monthly');document.getElementById('monthlyMonth').value=demoBundle.month;

diff --git a/README.md b/README.md
@@ -88,7 +88,7 @@ python3 scripts/generate-weekly-report.py
 
 - 以本人已确认的正式任务生成六个思维导图分支：月度概览、重点工作与成果、任务进展、风险与阻塞、下月计划和工作总结。月份按北京时间计算，当前月份统计到生成时刻；已结束月份统计到月末。
 - 重点工作纳入未完成 P0 和本月已完成的全部优先级任务；下月计划纳入下月到期的未完成任务，以及正在推进的 P0/P1 任务。草稿、待确认、取消和删除任务不纳入。
-- 点击导图节点编辑文字、增加补充节点、删除或排序明细；统计数字、本人姓名与月份受保护。支持平移、缩放、折叠展开、SVG 导图导出、导图 JSON 导出和复制文本。
+- 点击导图节点编辑文字、增加补充节点、删除或排序明细；统计数字、本人姓名与月份受保护。采用绿色主题节点、向右展开的灰色曲线与文字下划线样式；长文本完整换行。默认收起编辑区，白底画布可滚动，支持阅读大小、适应宽度、全屏查看、平移缩放、折叠展开、SVG 导图导出、导图 JSON 导出和复制文本。
 - 修改自动保存；归档会先保存最后一次输入，固定任务快照和导图。归档后不可直接修改，可新建修订稿，保留原版本。再次生成同一月份会打开已有版本，不覆盖人工内容。生成后任务变化不会自动改写月报。
 - 月报接口使用服务端登录会话识别本人，列表、详情、导出和写入均检查权限，忽略客户端提交的演示身份。**必须启用已有的飞书扫码登录并绑定员工账号后使用私人月报**；演示身份和共享 Basic Auth 密码不能访问月报，避免自由切换身份造成泄露。登录配置见下文“飞书扫码登录”。
 

diff --git a/artifacts/monthly-report-demo/README.md b/artifacts/monthly-report-demo/README.md
@@ -13,4 +13,4 @@
 
 网页复用实际月报界面；演示 API 仅在当前页面模拟，编辑及后续操作只写浏览器 sessionStorage，关闭标签页后结束演示；“恢复初始演示”可清除本次修改。生产月报接口仍要求真实员工登录。
 
-index.html 是演示入口，依赖站点提供的 /static/monthly-reports.js；report.json 包含生成的虚构快照与模拟操作记录；demo.db 是可重复生成的演示数据库，已排除版本控制。preview.png 为演示截图，example.svg 为导出示例。
+index.html 是演示入口，依赖站点提供的 /static/monthly-reports.js；report.json 包含生成的虚构快照与模拟操作记录；demo.db 是可重复生成的演示数据库，已排除版本控制。preview.png 为页面截图，fullscreen.png 为全屏导图截图，example.svg 为相同样式的完整 SVG 导出示例。导图采用绿色主题节点、向右分支、灰色曲线和文字下划线，长文字完整换行；支持滚动阅读、全屏查看和缩放。
